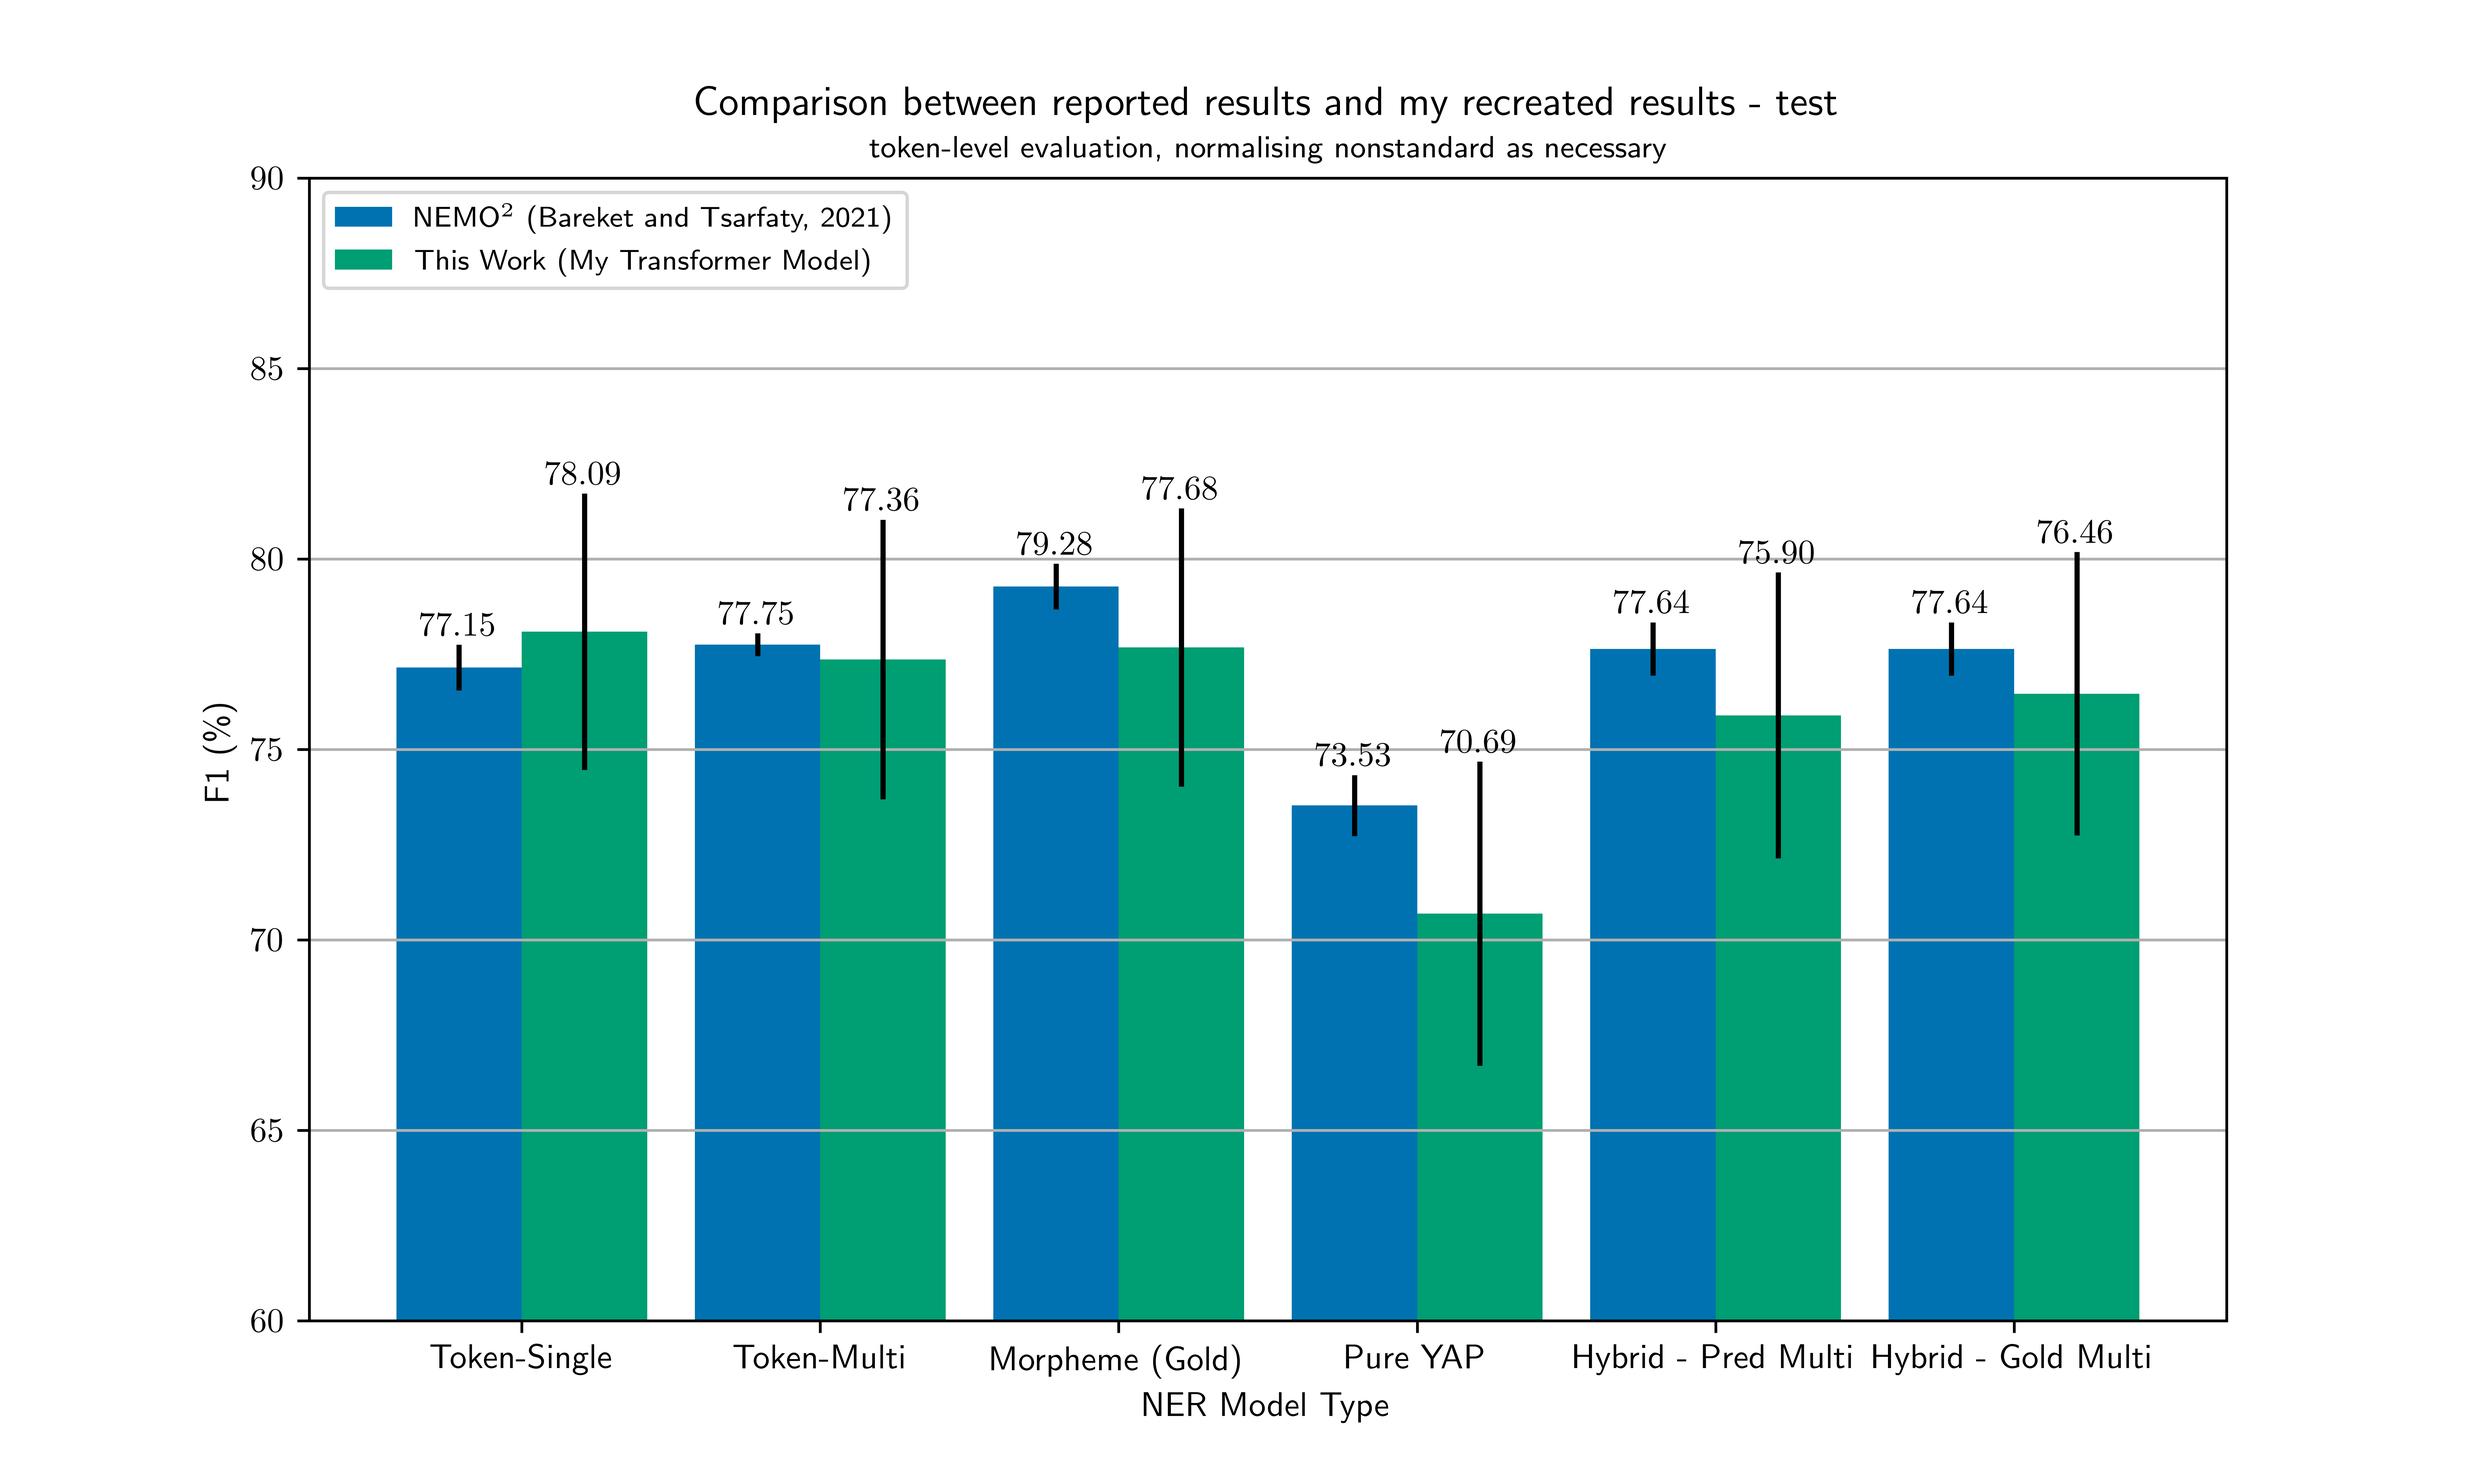
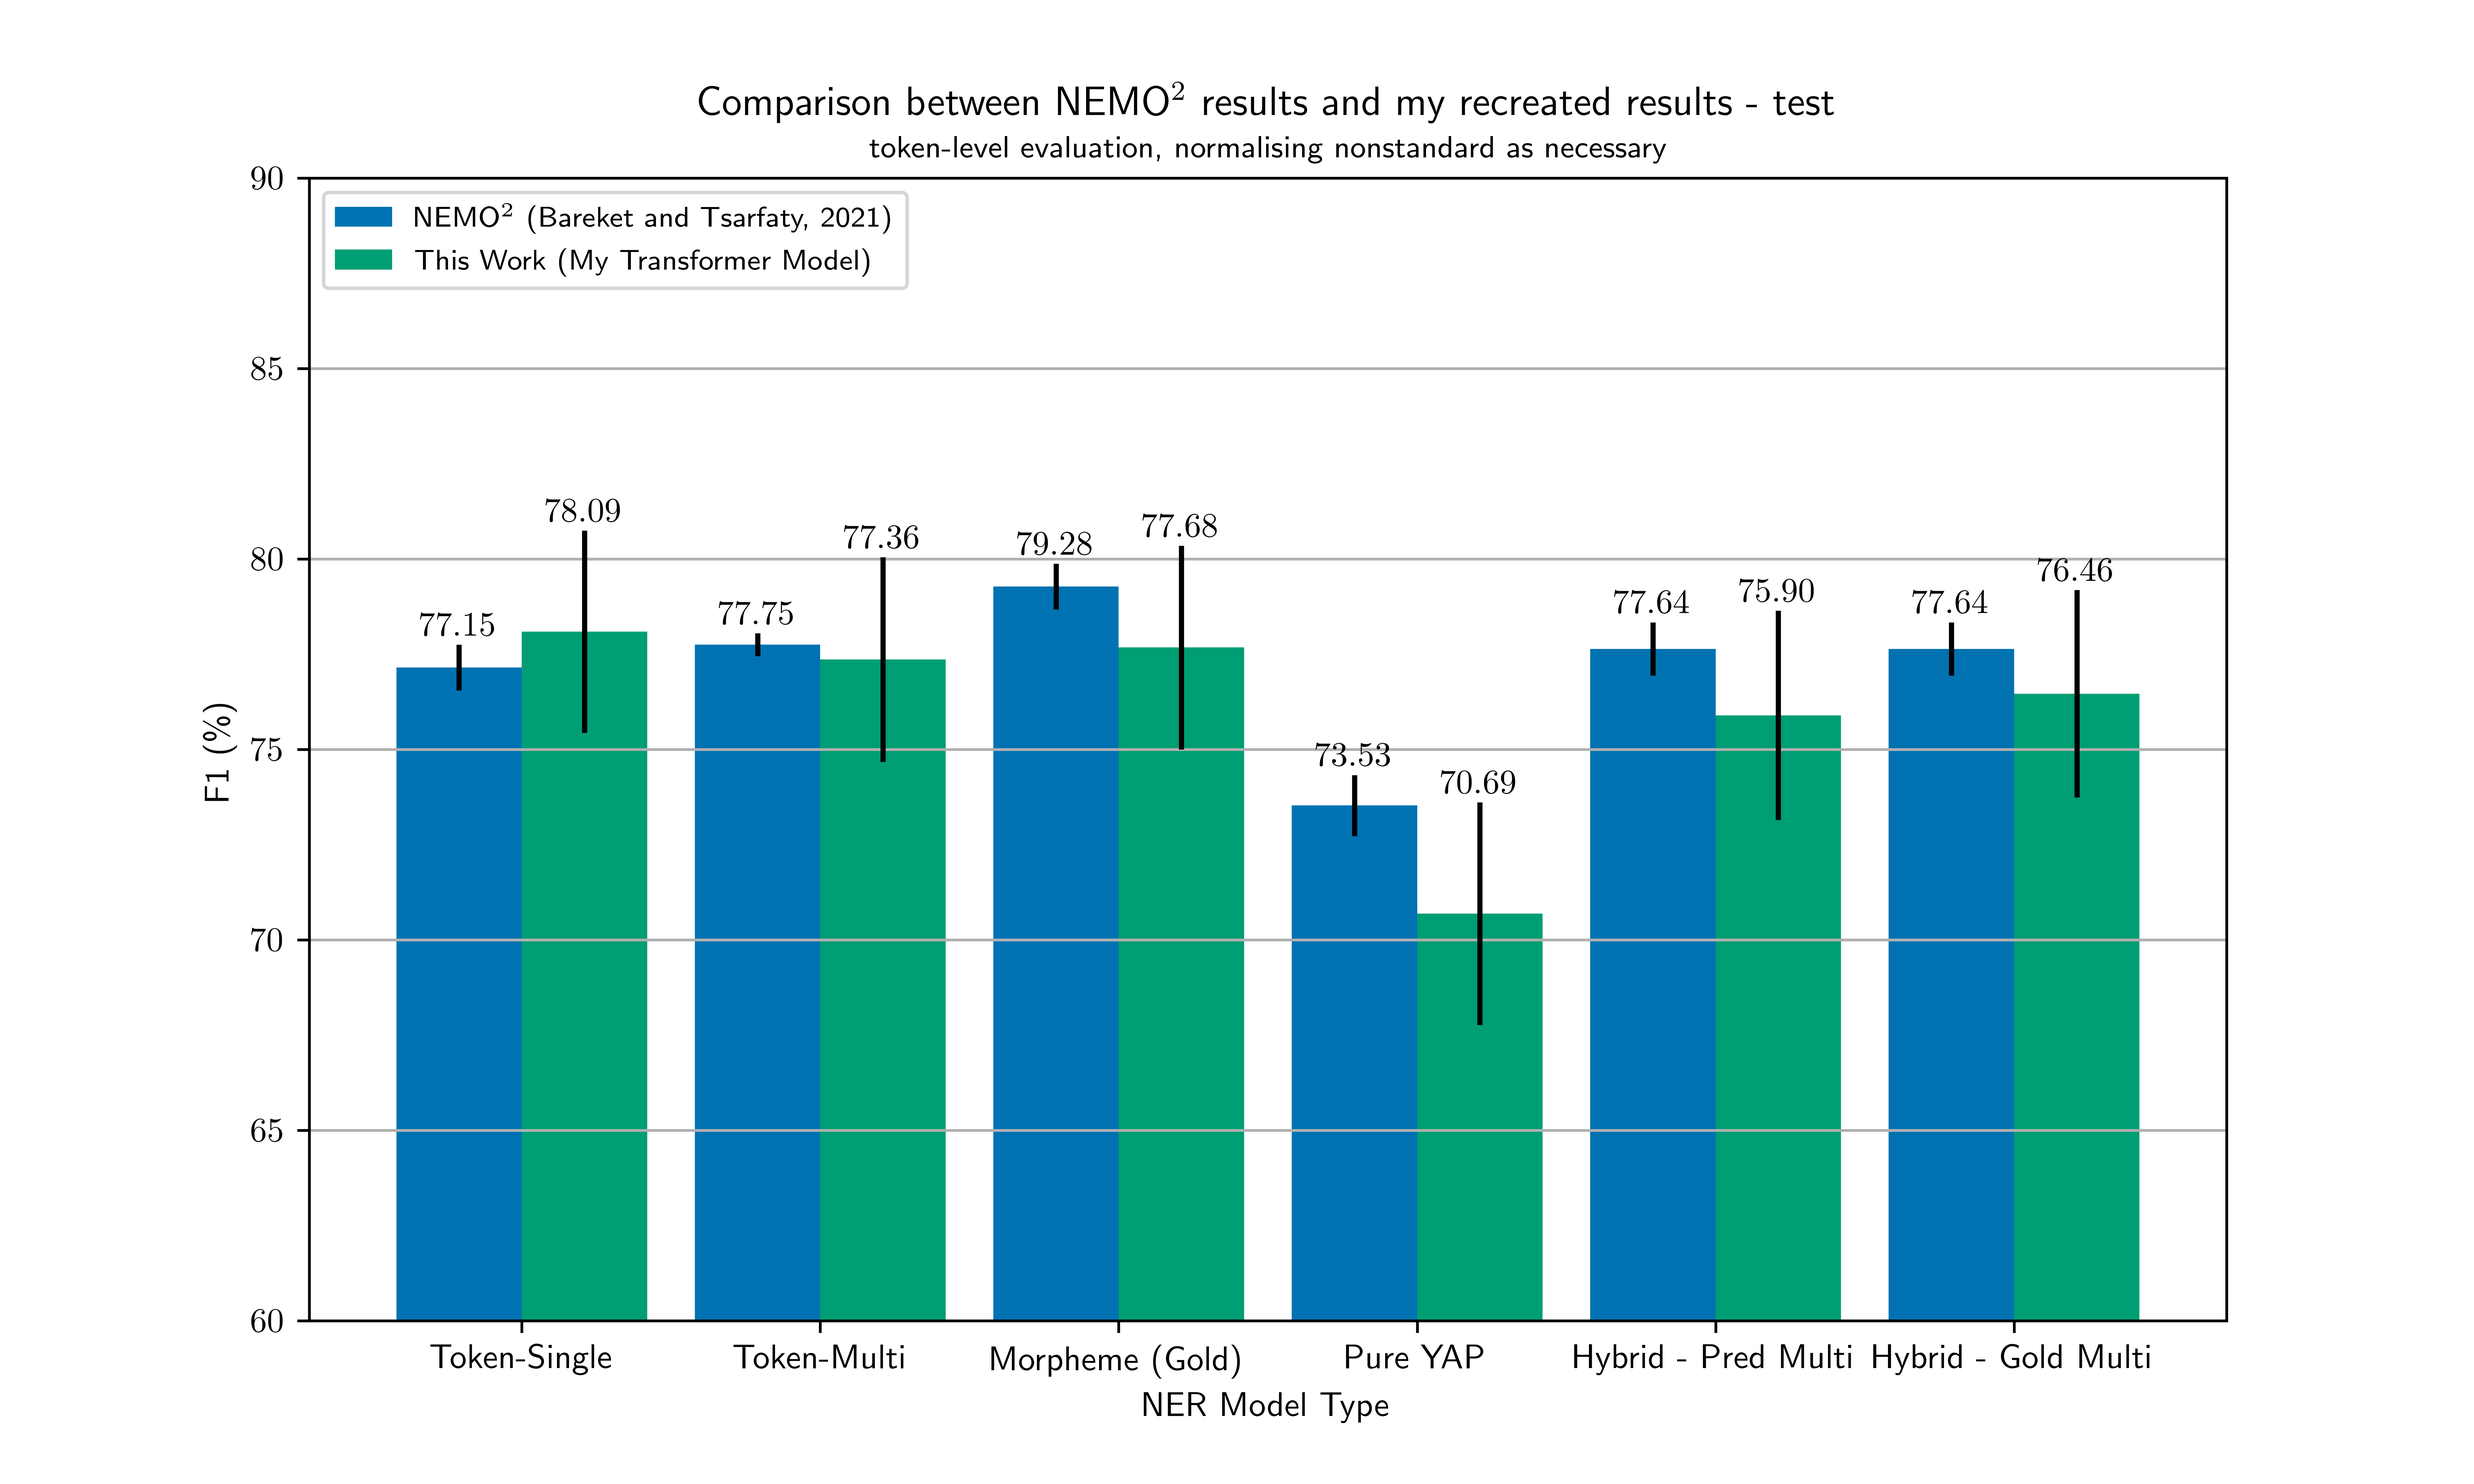
fix std conf intervals

diff --git a/utils/eval/graphing/comp.py b/utils/eval/graphing/comp.py
@@ -290,7 +290,7 @@ def std_test_all_in_one():
     base_comp_graph(categories, orig_values, 'NEMO$^2$ (Bareket and Tsarfaty, 2021)', my_values * 100, 'This Work (My Transformer Model)',
                     x_label='NER Model Type', y_label=r'F1 (\%)',
                     title="Comparison between NEMO$^2$ results and my recreated results - test\n" +r'\small{token-level evaluation, normalising nonstandard as necessary}',
-                    comp_yerr=[norm_approx_int(f1, CONFIDENCE, DEV_NUM_SPANS) * 100 for f1 in my_values],
+                    comp_yerr=[norm_approx_int(f1, CONFIDENCE, TEST_NUM_SPANS) * 100 for f1 in my_values],
                     orig_yerr=[0.6, 0.3, 0.6, 0.8, 0.7, 0.7],
                     # save=None,
                     save='graphs/standard/test_all_in_one.png',
@@ -346,5 +346,5 @@ if __name__ == '__main__':
     # trn_dev()
     # trn_test()
     std_test_all_in_one()
-    trn_test_all_in_one()
+    # trn_test_all_in_one()
     # plt.show()
